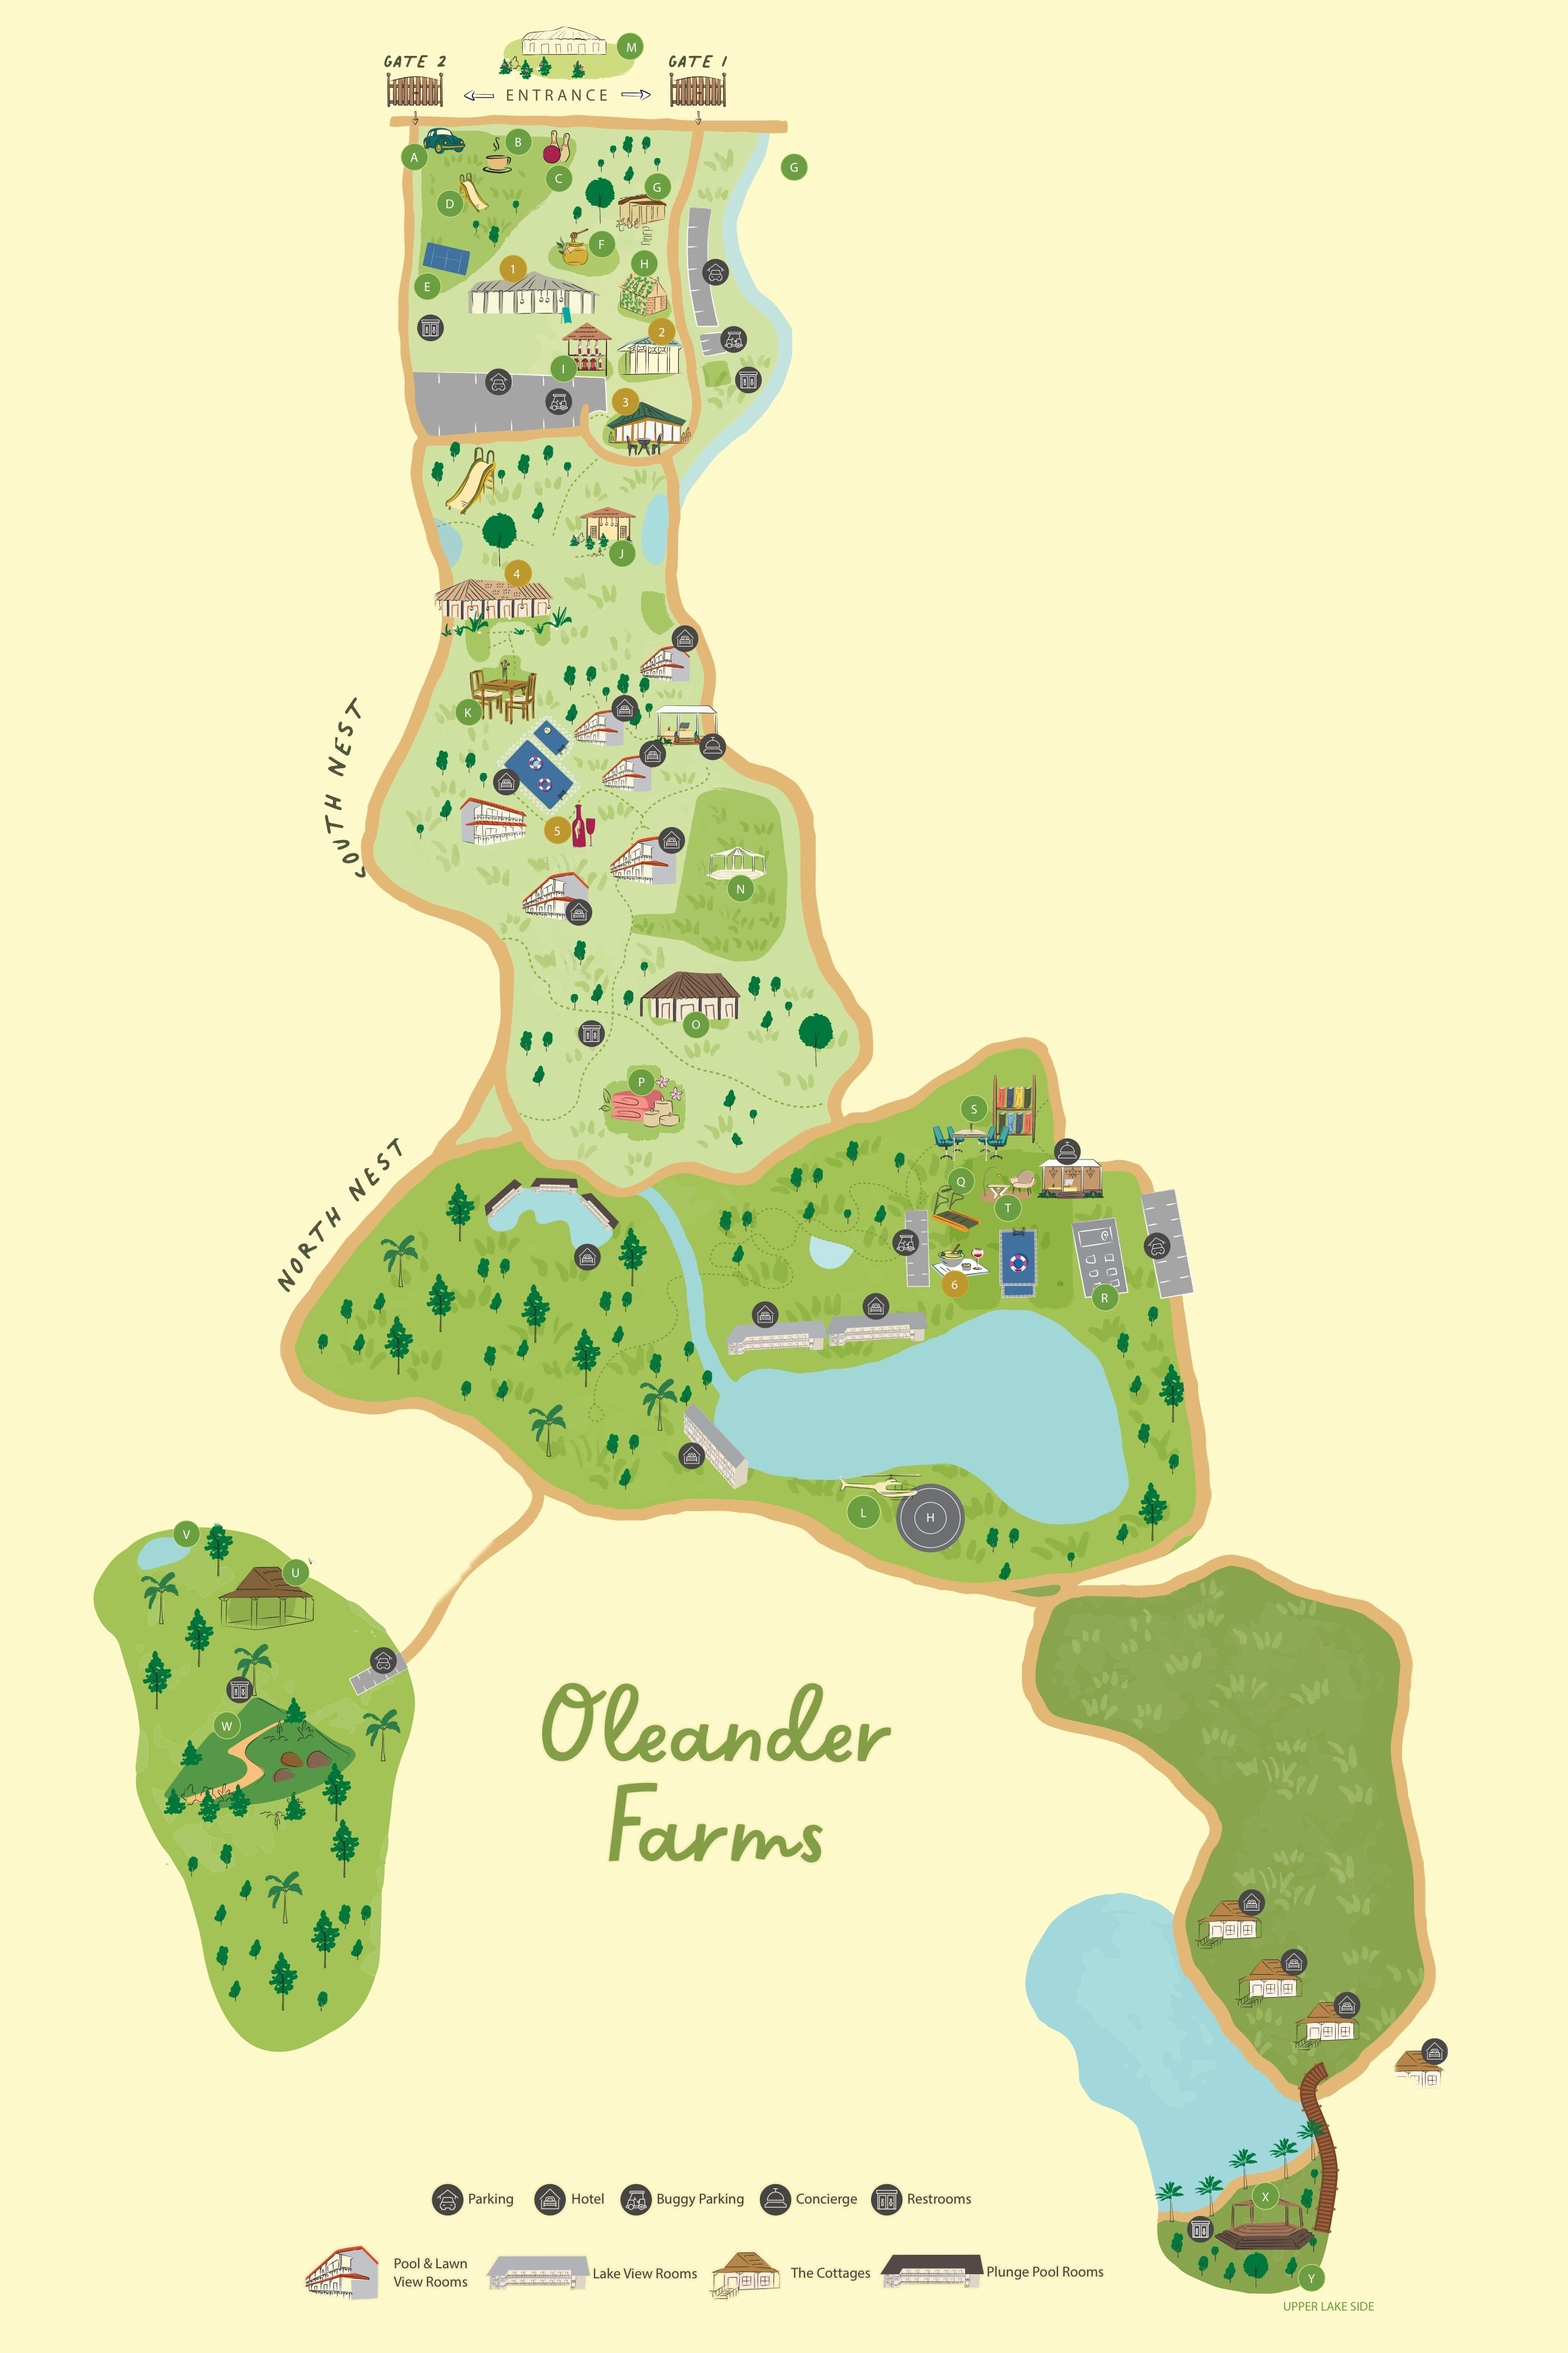
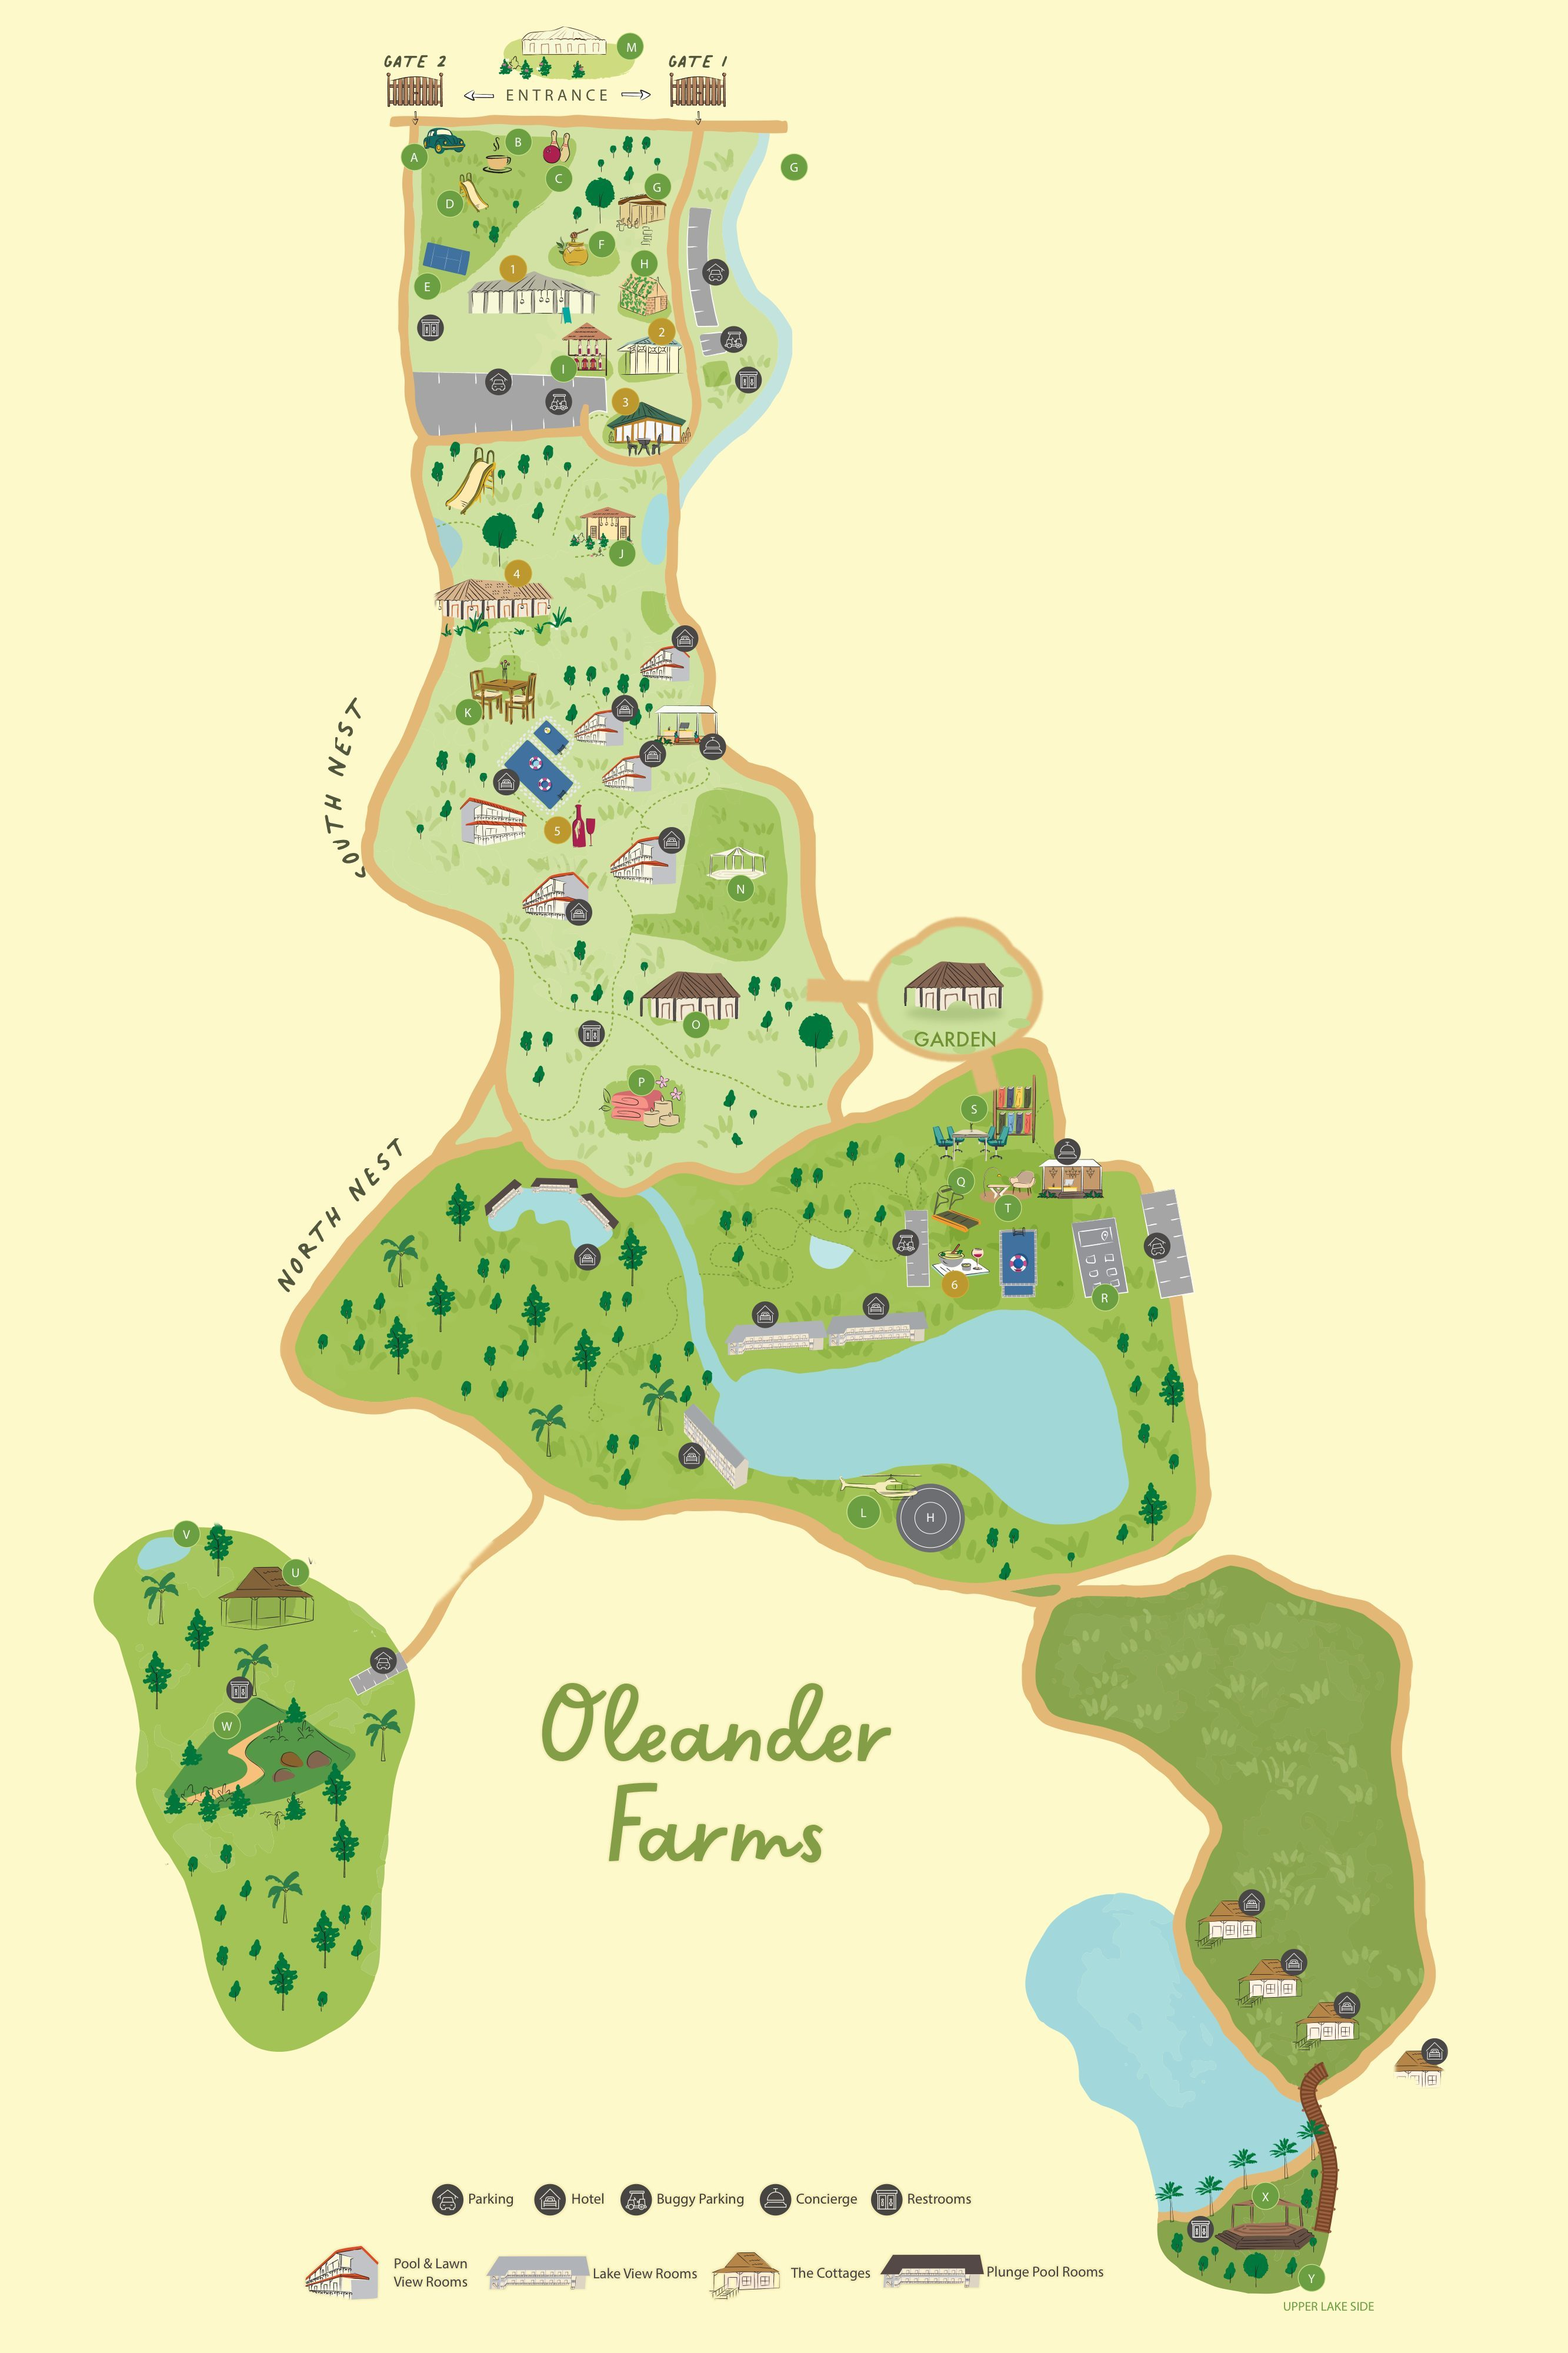
Venue map: add the new Garden building between South Nest and North Nest

Changed region(s): [[0.4981, 0.375, 0.6849, 0.4688]]

diff --git a/js/map2d.js b/js/map2d.js
@@ -12,7 +12,7 @@
 
 import { FEATURES, GROUPS } from './venue-data.js?v=1';
 
-const TEX_URL = new URL('../assets/venue-map.jpg?v=5', import.meta.url).href;   // the resort's own map, description text removed
+const TEX_URL = new URL('../assets/venue-map.jpg?v=6', import.meta.url).href;   // the resort's own map, description text removed
 export const MAP_VERSION = 2;
 export { GROUPS };
 // Guess a room group from a wing name ("Lake View", "Cottage 3" …) when the family hasn't linked it.
